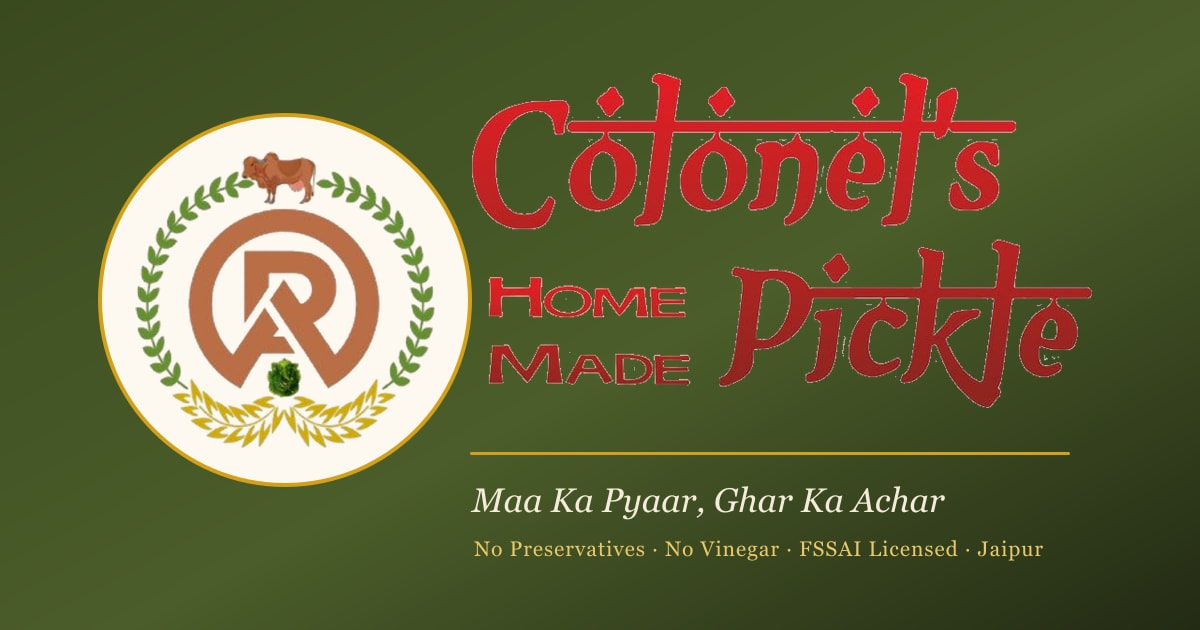
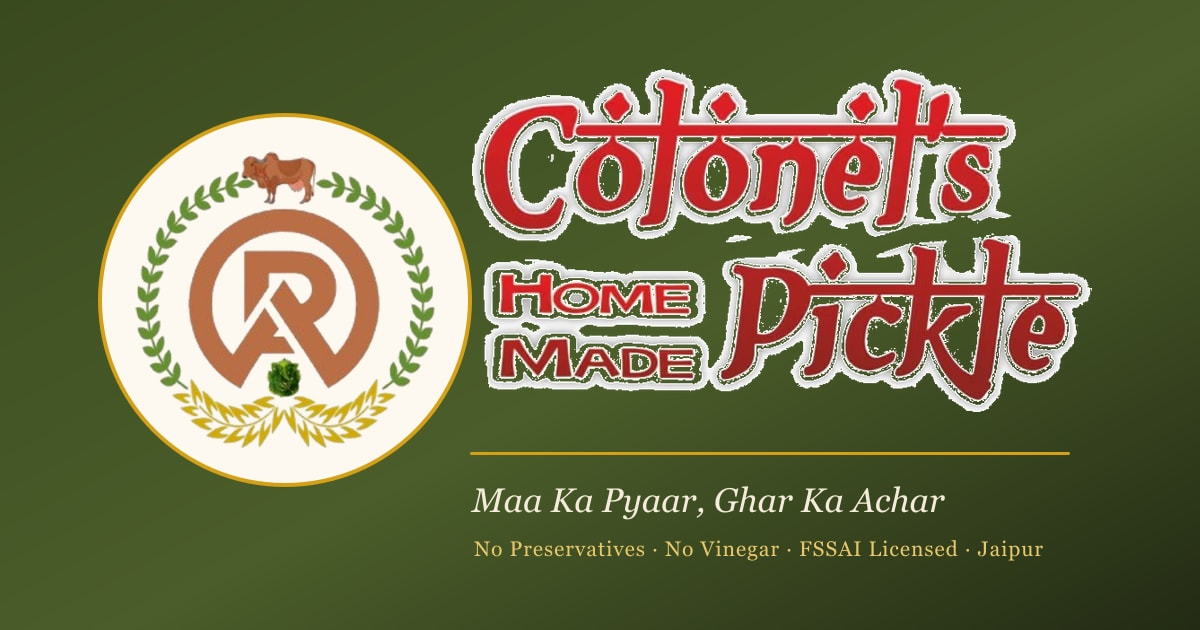
feat: use official trademark artwork as canonical wordmark; navbar image on plaque
- Add client-supplied official trademark (colonels-pickle-wordmark-source.avif) as the canonical wordmark source; build script now transcodes it to PNG (no re-keying) instead of chroma-keying the JPEG
- Navbar: revert to the real trademark image seated on a subtle light plaque (+ ® mark), on desktop and mobile — best practice is to show the registered mark, not a font lookalike; the plaque keeps it crisp/halo-free on the cream bar
- Wordmark image dimensions corrected to 691x382 across header/footer/hero

Claude-Session: https://claude.ai/code/session_01D3BLF3WAtPFjAYjprtj41j

Changed region(s): [[0.37, 0.0905, 0.925, 0.6635]]

diff --git a/src/components/layout/Header.tsx b/src/components/layout/Header.tsx
@@ -187,17 +187,20 @@ export function Header() {
                   priority
                 />
               </span>
-              {/* Compact on-brand type for phones with room; crest-only below 380px */}
-              <span className="hidden flex-col leading-none min-[380px]:flex">
-                <span className="font-display text-[19px] font-black leading-none tracking-[-0.01em] text-[#B0201C]">
-                  Colonel&apos;s <span className="italic">Pickle</span>
-                  <sup className="ml-0.5 align-super font-sans text-[0.42em] font-bold text-cp-brown">
-                    &reg;
-                  </sup>
-                </span>
-                <span className="mt-1 font-hindi text-[8px] font-semibold tracking-[0.16em] text-cp-olive-dark">
-                  MAA KA PYAAR, GHAR KA ACHAR
-                </span>
+              {/* Official trademark on a light plaque for phones with room;
+                  crest-only below 380px */}
+              <span className="relative hidden items-start rounded-md bg-cp-cream-muted/90 px-2 py-1 shadow-[0_2px_6px_rgba(0,0,0,0.06)] ring-1 ring-cp-gold/25 min-[380px]:inline-flex">
+                <Image
+                  src="/images/brand/colonels-pickle-wordmark.png"
+                  alt="Colonel's Pickle® — homemade Indian pickles"
+                  width={691}
+                  height={382}
+                  className="h-[22px] w-auto"
+                  priority
+                />
+                <sup className="ml-0.5 font-sans text-[8px] font-bold text-cp-brown">
+                  &reg;
+                </sup>
               </span>
             </span>
 
@@ -207,23 +210,32 @@ export function Header() {
               aria-hidden="true"
             />
 
-            <span className="hidden flex-col leading-none lg:flex">
-              {/* Trademark set as crisp, on-brand serif type so it stays sharp at
-                  navbar size; the signature red script wordmark image still leads
-                  the hero and footer. */}
+            <span className="hidden flex-col items-start gap-1.5 lg:flex">
+              {/* Official trademark artwork on a light plaque so its white
+                  sticker-outline reads intentionally against the cream bar. */}
               <span
                 className={cn(
-                  "font-display font-black leading-none tracking-[-0.01em] text-[#B0201C] transition-[font-size] duration-300",
-                  scrolled ? "text-[23px]" : "text-[27px]"
+                  "relative inline-flex items-start rounded-lg bg-cp-cream-muted/90 shadow-[0_2px_8px_rgba(0,0,0,0.07)] ring-1 ring-cp-gold/25 transition-all duration-300 group-hover:shadow-[0_4px_12px_rgba(0,0,0,0.1)]",
+                  scrolled ? "px-2.5 py-1" : "px-3 py-1.5"
                 )}
               >
-                Colonel&apos;s <span className="italic">Pickle</span>
-                <sup className="ml-0.5 align-super font-sans text-[0.42em] font-bold text-cp-brown">
+                <Image
+                  src="/images/brand/colonels-pickle-wordmark.png"
+                  alt="Colonel's Pickle® — homemade Indian pickles"
+                  width={691}
+                  height={382}
+                  className={cn(
+                    "w-auto transition-[height] duration-300",
+                    scrolled ? "h-[30px]" : "h-[34px]"
+                  )}
+                  priority
+                />
+                <sup className="ml-0.5 mt-0.5 font-sans text-[10px] font-bold text-cp-brown">
                   &reg;
                 </sup>
               </span>
               {/* Tagline: a short gold tick + the words */}
-              <span className="mt-2 flex items-center gap-2">
+              <span className="flex items-center gap-2 pl-1">
                 <span
                   className="h-px w-4 shrink-0 bg-gradient-to-r from-transparent to-cp-gold/70"
                   aria-hidden="true"

diff --git a/scripts/build-brand-assets.ts b/scripts/build-brand-assets.ts
@@ -40,31 +40,6 @@ async function whiteToTransparent(
   return sharp(out, { raw: { width, height, channels } }).png().toBuffer();
 }
 
-/**
- * Knock out every light / low-saturation pixel to transparent — removes the
- * white background, the white sticker-outline AND the grey drop-shadow smudge
- * baked into the wordmark artwork, leaving only the saturated red lettering.
- * A pixel is dropped when its darkest channel is bright (min(R,G,B) >= floor),
- * which is true for white and every shade of grey but never for the red glyphs
- * (their green/blue channels stay low). This is what kills the "dirty halo".
- */
-async function lightAndGreyToTransparent(
-  input: string | Buffer,
-  floor = 168
-): Promise<Buffer> {
-  const { data, info } = await sharp(input)
-    .ensureAlpha()
-    .raw()
-    .toBuffer({ resolveWithObject: true });
-  const { width, height, channels } = info;
-  const out = Buffer.from(data);
-  for (let i = 0; i < out.length; i += channels) {
-    const min = Math.min(out[i], out[i + 1], out[i + 2]);
-    if (min >= floor) out[i + 3] = 0;
-  }
-  return sharp(out, { raw: { width, height, channels } }).png().toBuffer();
-}
-
 const TRANSPARENT = { r: 0, g: 0, b: 0, alpha: 0 };
 
 async function buildCrest(): Promise<string> {
@@ -86,18 +61,13 @@ async function buildCrest(): Promise<string> {
 }
 
 async function buildWordmark(): Promise<string> {
-  // colonels-pickle-logo-plain.jpeg is the red "Colonel's Home Made Pickle"
-  // wordmark on white, with a white sticker-outline and a grey drop-shadow baked
-  // in. Drop every light/grey pixel (not just pure white) so neither the outline
-  // nor the shadow survives as a halo — leaving only the clean red lettering.
-  const keyed = await lightAndGreyToTransparent(
-    P('public/images/brand/colonels-pickle-logo-plain.jpeg'),
-    168
-  );
+  // Client-supplied official trademark artwork (transparent AVIF, 691×382) —
+  // the registered red "Colonel's Home Made Pickle" script with its white
+  // sticker-outline. This is the canonical mark; we only transcode it to PNG
+  // (no re-keying) so the exact artwork is preserved. It sits on a light plaque
+  // wherever it appears on a dark/flat surface (navbar, footer, hero badge).
   const out = P('public/images/brand/colonels-pickle-wordmark.png');
-  await sharp(keyed)
-    .trim({ threshold: 12 })
-    .resize({ width: 900, withoutEnlargement: true })
+  await sharp(P('public/images/brand/colonels-pickle-wordmark-source.avif'))
     .png()
     .toFile(out);
   return out;

diff --git a/src/components/home/HeroSection.tsx b/src/components/home/HeroSection.tsx
@@ -265,8 +265,8 @@ export async function HeroSection() {
                 <Image
                   src="/images/brand/colonels-pickle-wordmark.png"
                   alt="Colonel's Pickle® — homemade Indian pickles"
-                  width={662}
-                  height={358}
+                  width={691}
+                  height={382}
                   className="h-[38px] w-auto"
                   priority
                 />

diff --git a/src/components/layout/Footer.tsx b/src/components/layout/Footer.tsx
@@ -88,8 +88,8 @@ export function Footer() {
                 <Image
                   src="/images/brand/colonels-pickle-wordmark.png"
                   alt="Colonel's Pickle® — homemade Indian pickles"
-                  width={662}
-                  height={358}
+                  width={691}
+                  height={382}
                   className="h-auto w-[168px]"
                 />
               </span>
